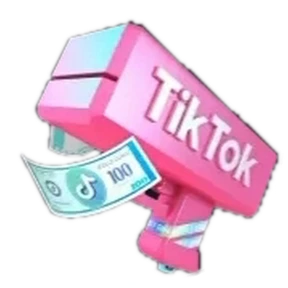
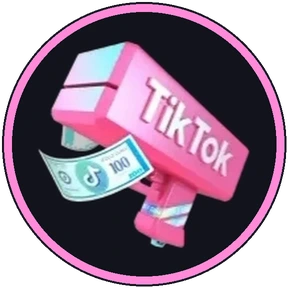
がっちゃんこ：コマの絵を黒い丸＋色ふちの版に戻す
Claude-Session: https://claude.ai/code/session_01HLDAdxR8EuB7ryd8AUY3Hp

diff --git a/gmerge/index.html b/gmerge/index.html
@@ -152,7 +152,7 @@ canvas{touch-action:none;user-select:none;-webkit-user-select:none}
   </div>
   <div id="cfg" hidden>
     <div class="top"><div id="embedNote" hidden style="background:#5a1020;border:3px solid #ff6a80;border-radius:.6em;padding:.6em .8em;margin:.2em 0 .6em;font-weight:900;line-height:1.5">このページ（Claudeの共有ページ）では、スマホだけの配信（ギフトの受け取り）は動きません。<br>Safariでこちらを開いてください：<br><a href="https://sanpolab.github.io/jan/gmerge/" target="_blank" rel="noopener" style="color:#ffe680;word-break:break-all">https://sanpolab.github.io/jan/gmerge/</a></div>
-<h2>ギフト設定 <small id="verTag" style="font-size:.5em;font-weight:700;color:#9ab;margin-left:.6em">版 11/26 22:51</small></h2>
+<h2>ギフト設定 <small id="verTag" style="font-size:.5em;font-weight:700;color:#9ab;margin-left:.6em">版 11/26 22:52</small></h2>
     <div id="missBox" hidden><h3 style="color:#ff9aa8">届いたけど、どの効果か分からなかったギフト</h3>
     <p>スマホ用のつなぎ先は、ギフトの名前を英語で送ってくることがあります。下で「どの効果のギフトか」を1回えらぶと、次からは自動で反応します（コイン数が同じ効果だけを出しています）。</p>
     <div id="missList"></div></div>
@@ -217,7 +217,7 @@ canvas{touch-action:none;user-select:none;-webkit-user-select:none}
 <script>
 'use strict';
 const cv=document.getElementById('cv'), g=cv.getContext('2d'), stage=document.getElementById('stage');
-const VER='1126-225132';
+const VER='1126-225245';
 let TITLE=true, PAUSE=false; const PENDQ=[];   /* TITLE＝タイトル画面を出しているか、PAUSE＝一時停止中か、PENDQ＝一時停止の間に届いたギフト（再開したら順番に出す） */
 /* ===== ギフトがっちゃんこ：同じギフト同士がくっつくと、ひとつ上のギフトに進化する「くっつけ落としゲーム」。
    配信者が左右に動かして落とす。視聴者がギフトを投げると、そのギフトのコマが箱の中にふってくる。箱からあふれたら終わり。WINはなく、スコアとベストスコアだけ ===== */
